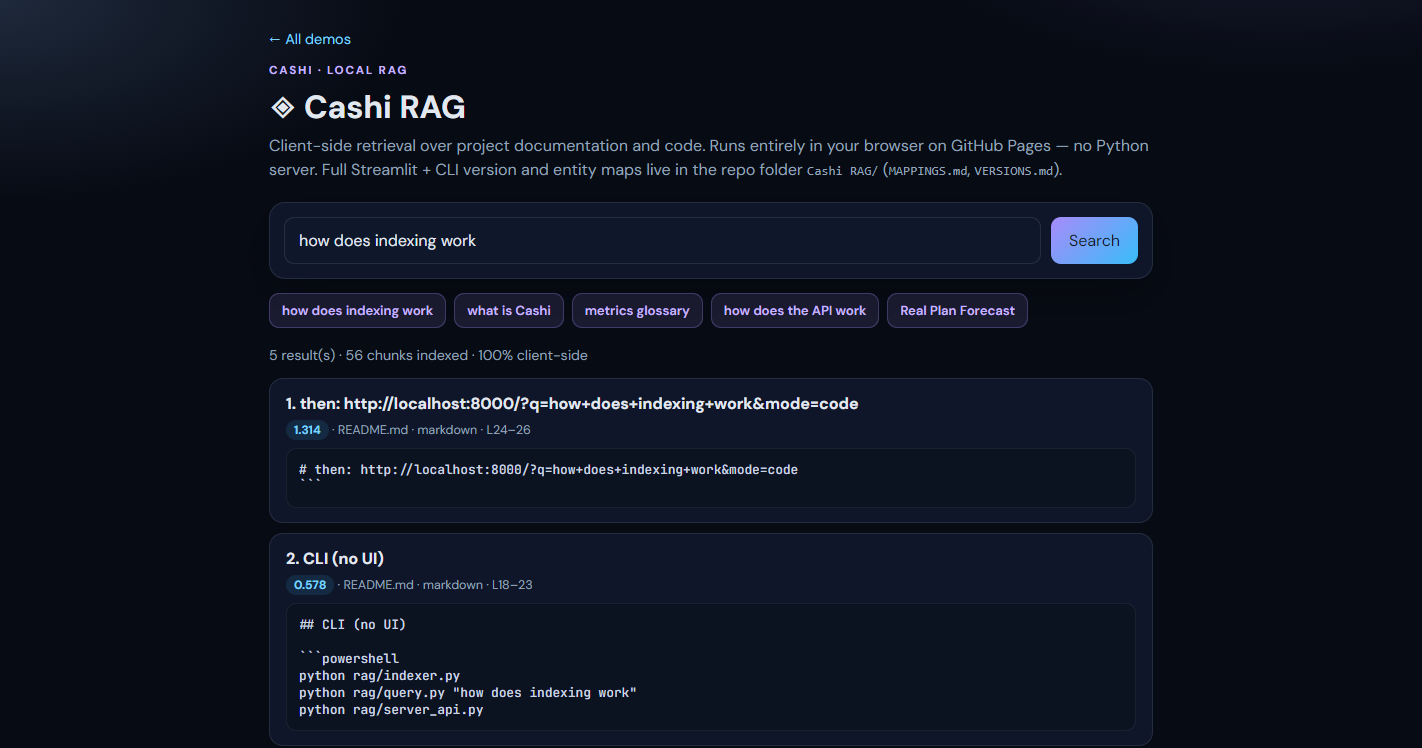
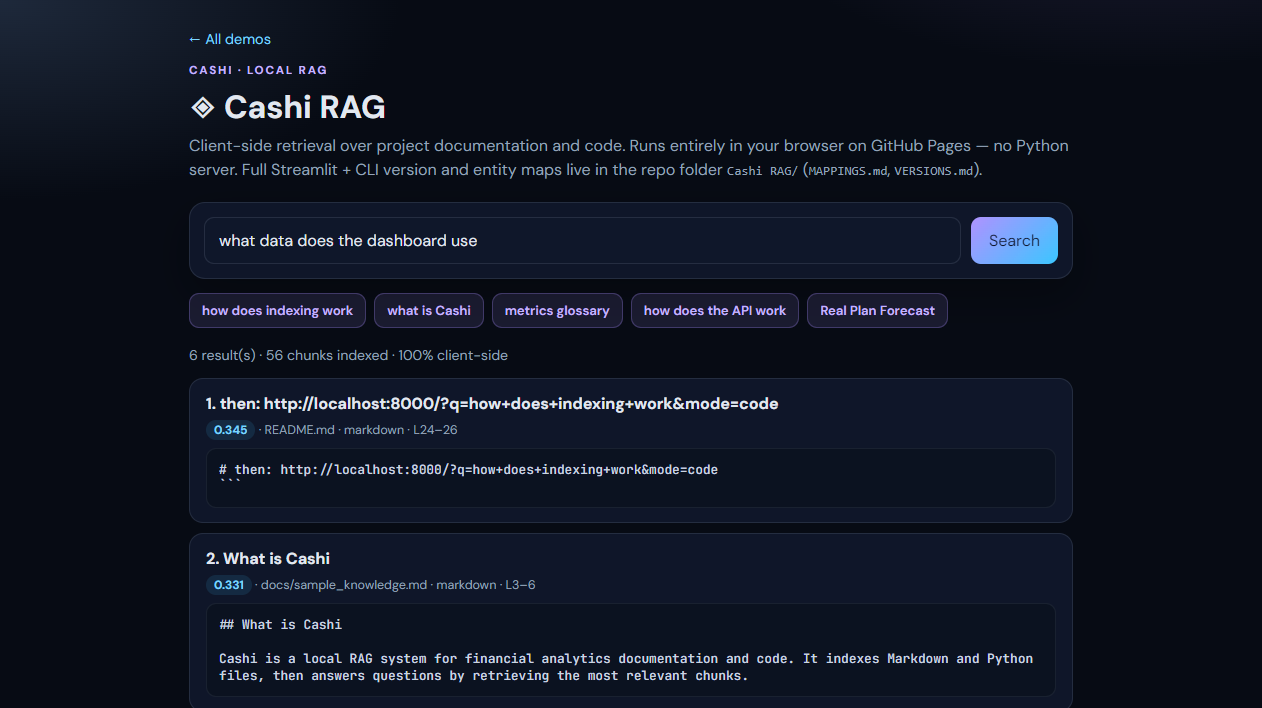
Rename to My_Portfolio and add demo walkthrough section

diff --git a/README.md b/README.md
@@ -1,4 +1,4 @@
-# Fintech Analytics & AI Demos
+# My_Portfolio
 
 Six applied finance and AI projects, each with a live browser demo, its source code, tests where it makes sense, and recorded screenshots. All data is synthetic or public market data; nothing here comes from a real employer or customer.
 
@@ -17,7 +17,27 @@ Six applied finance and AI projects, each with a live browser demo, its source c
 
 Once Pages is enabled the demos are served at `https://<user>.github.io/<repo>/`.
 
-## Screenshots
+## Demos: how each one works
+
+**Dashboard (Opex Control).** Sign in, filter by division, region, account group and weeks, drill from division down to store, review alerts and export tables as admin.
+
+![Dashboard tour](docs/opex-control/media/tour.gif)
+
+**Chatbot (Cashi).** Ask in plain English; the dashboard version answers from the same queries, and the standalone RAG demo returns ranked snippets with entities.
+
+| Assistant inside the dashboard | Standalone Cashi RAG |
+|---|---|
+| ![](docs/opex-control/media/11-assistant.png) | ![](docs/media/chatbot-tour.gif) |
+
+**LLM support agent (Payly).** Each answer shows its route, the tools used and whether every amount and date was grounded. Fee waivers and fraud reports are escalated with a ticket instead of answered. Model results: 19/25 on a local llama3.1:8b ([EVAL.md](support-agent/EVAL.md)).
+
+![Agent](docs/support-agent/media/mock-tour.gif)
+
+**Paper-trading simulation.** 100,000 USD of simulated capital on META, NVDA, DBO, SPY, QQQ, CEG and SCHD with a 20/100 moving-average rule, compared with SPY. The record starts 2026-11-20; earlier days are marked `backfill`.
+
+![Paper trading](docs/media/paper-trading.png)
+
+## More screenshots
 
 | Opex Control: summary | Opex Control: alerts |
 |---|---|
